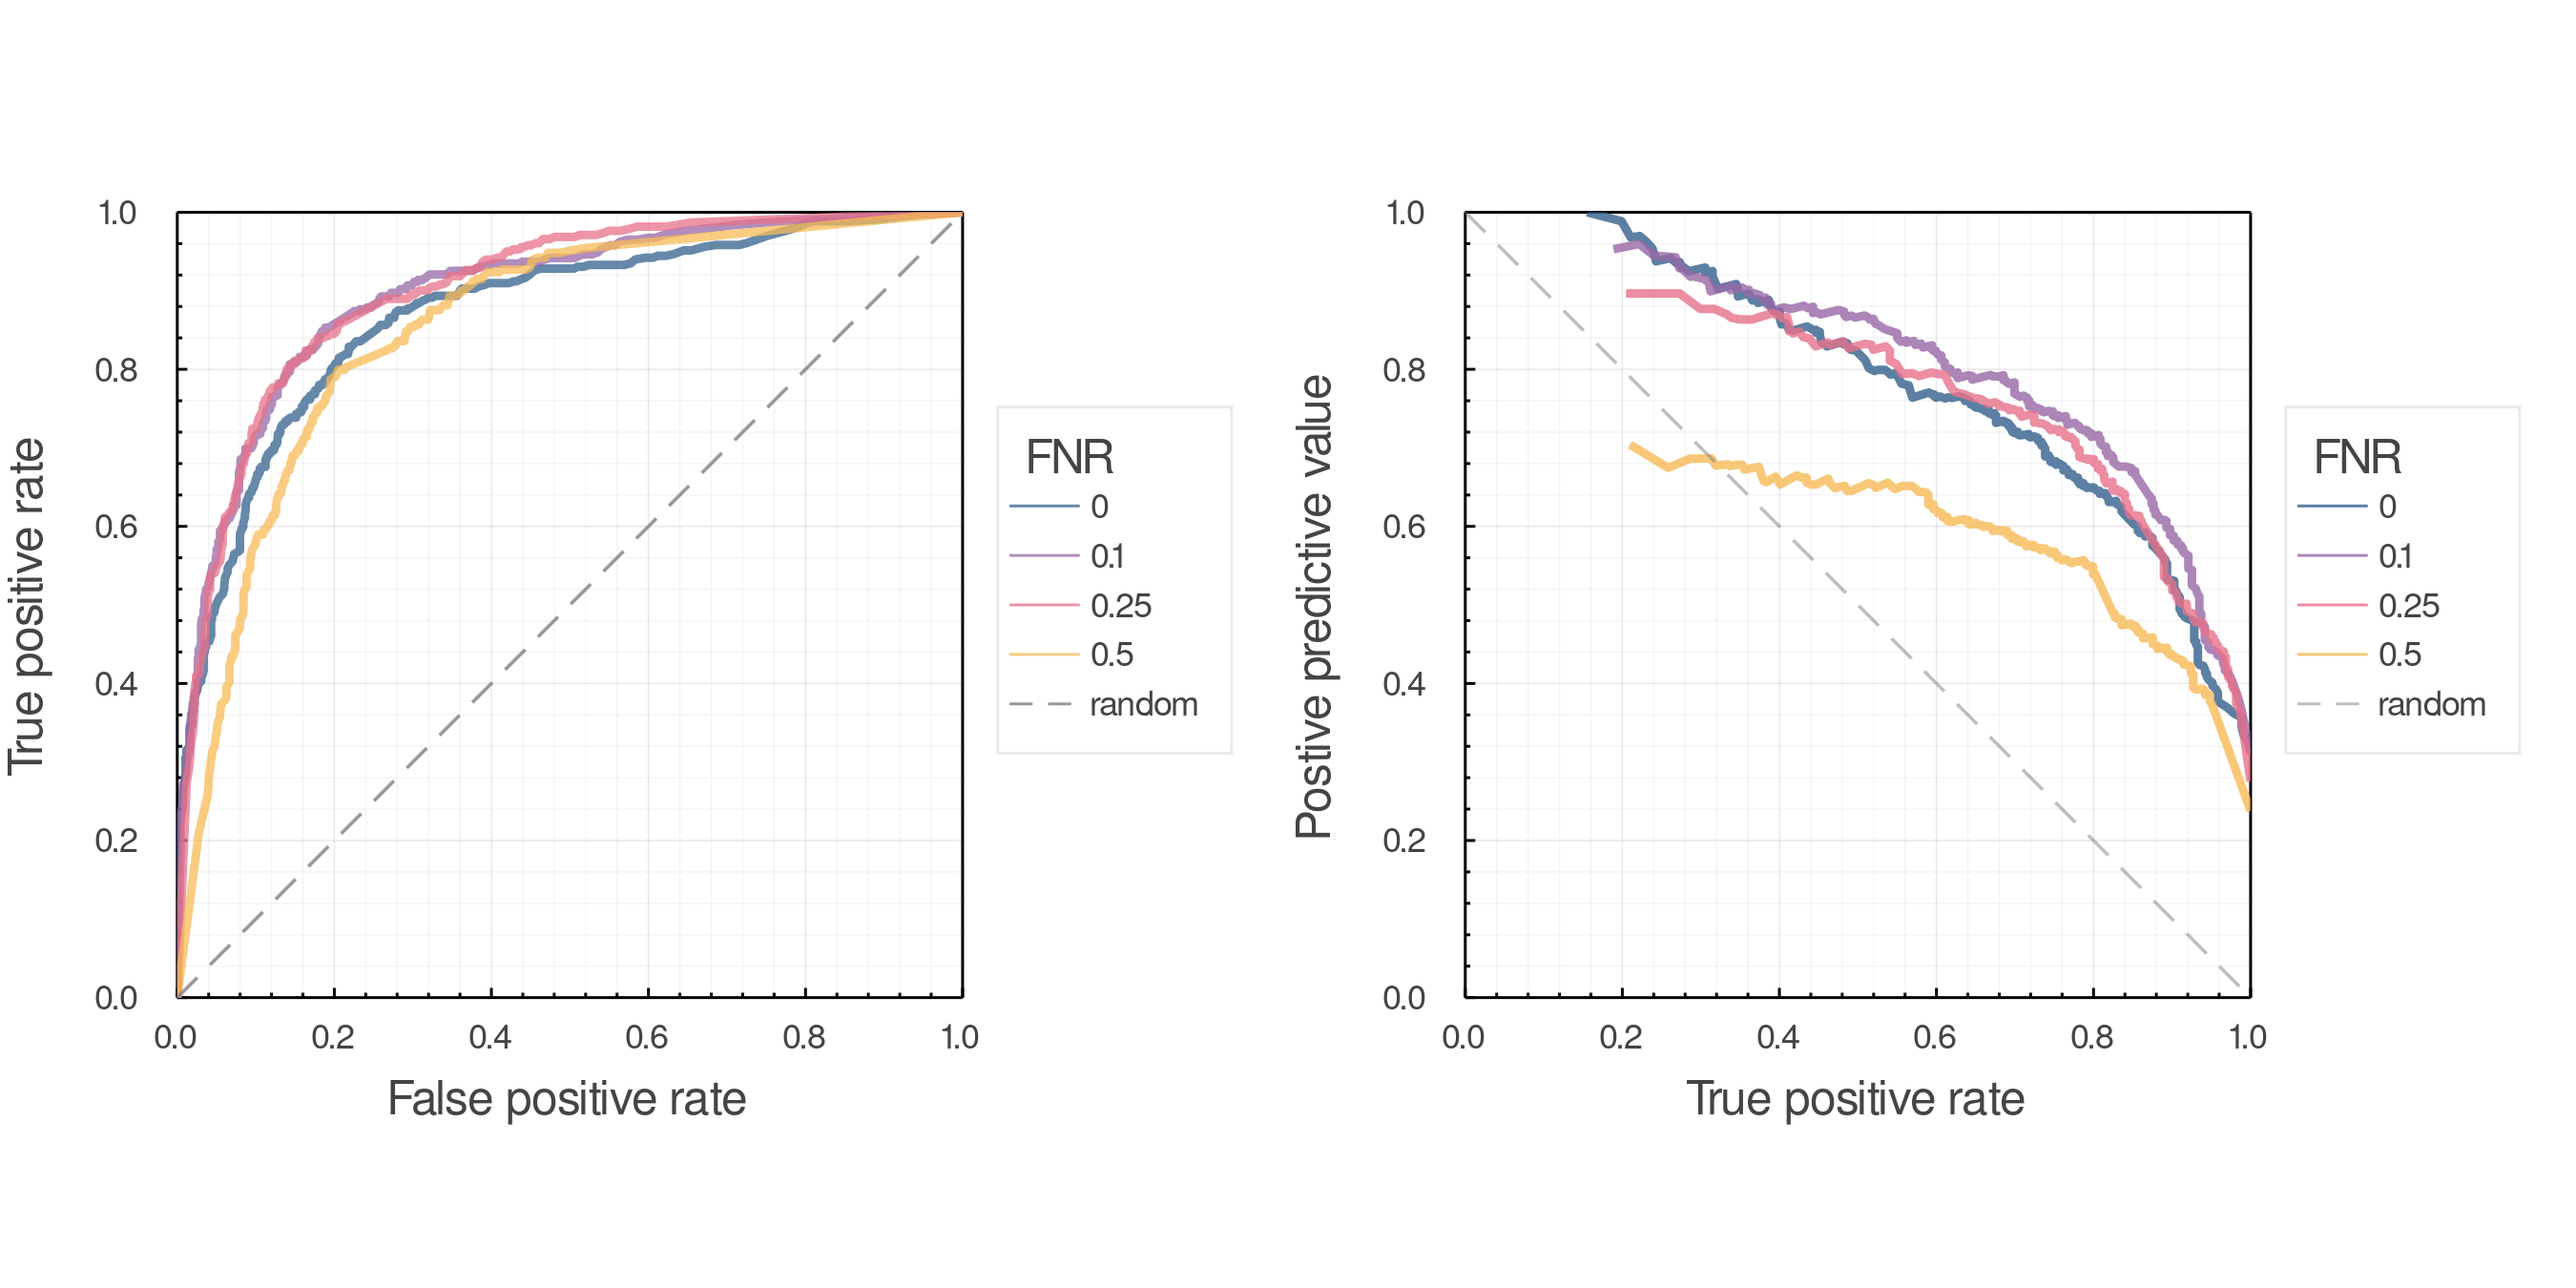
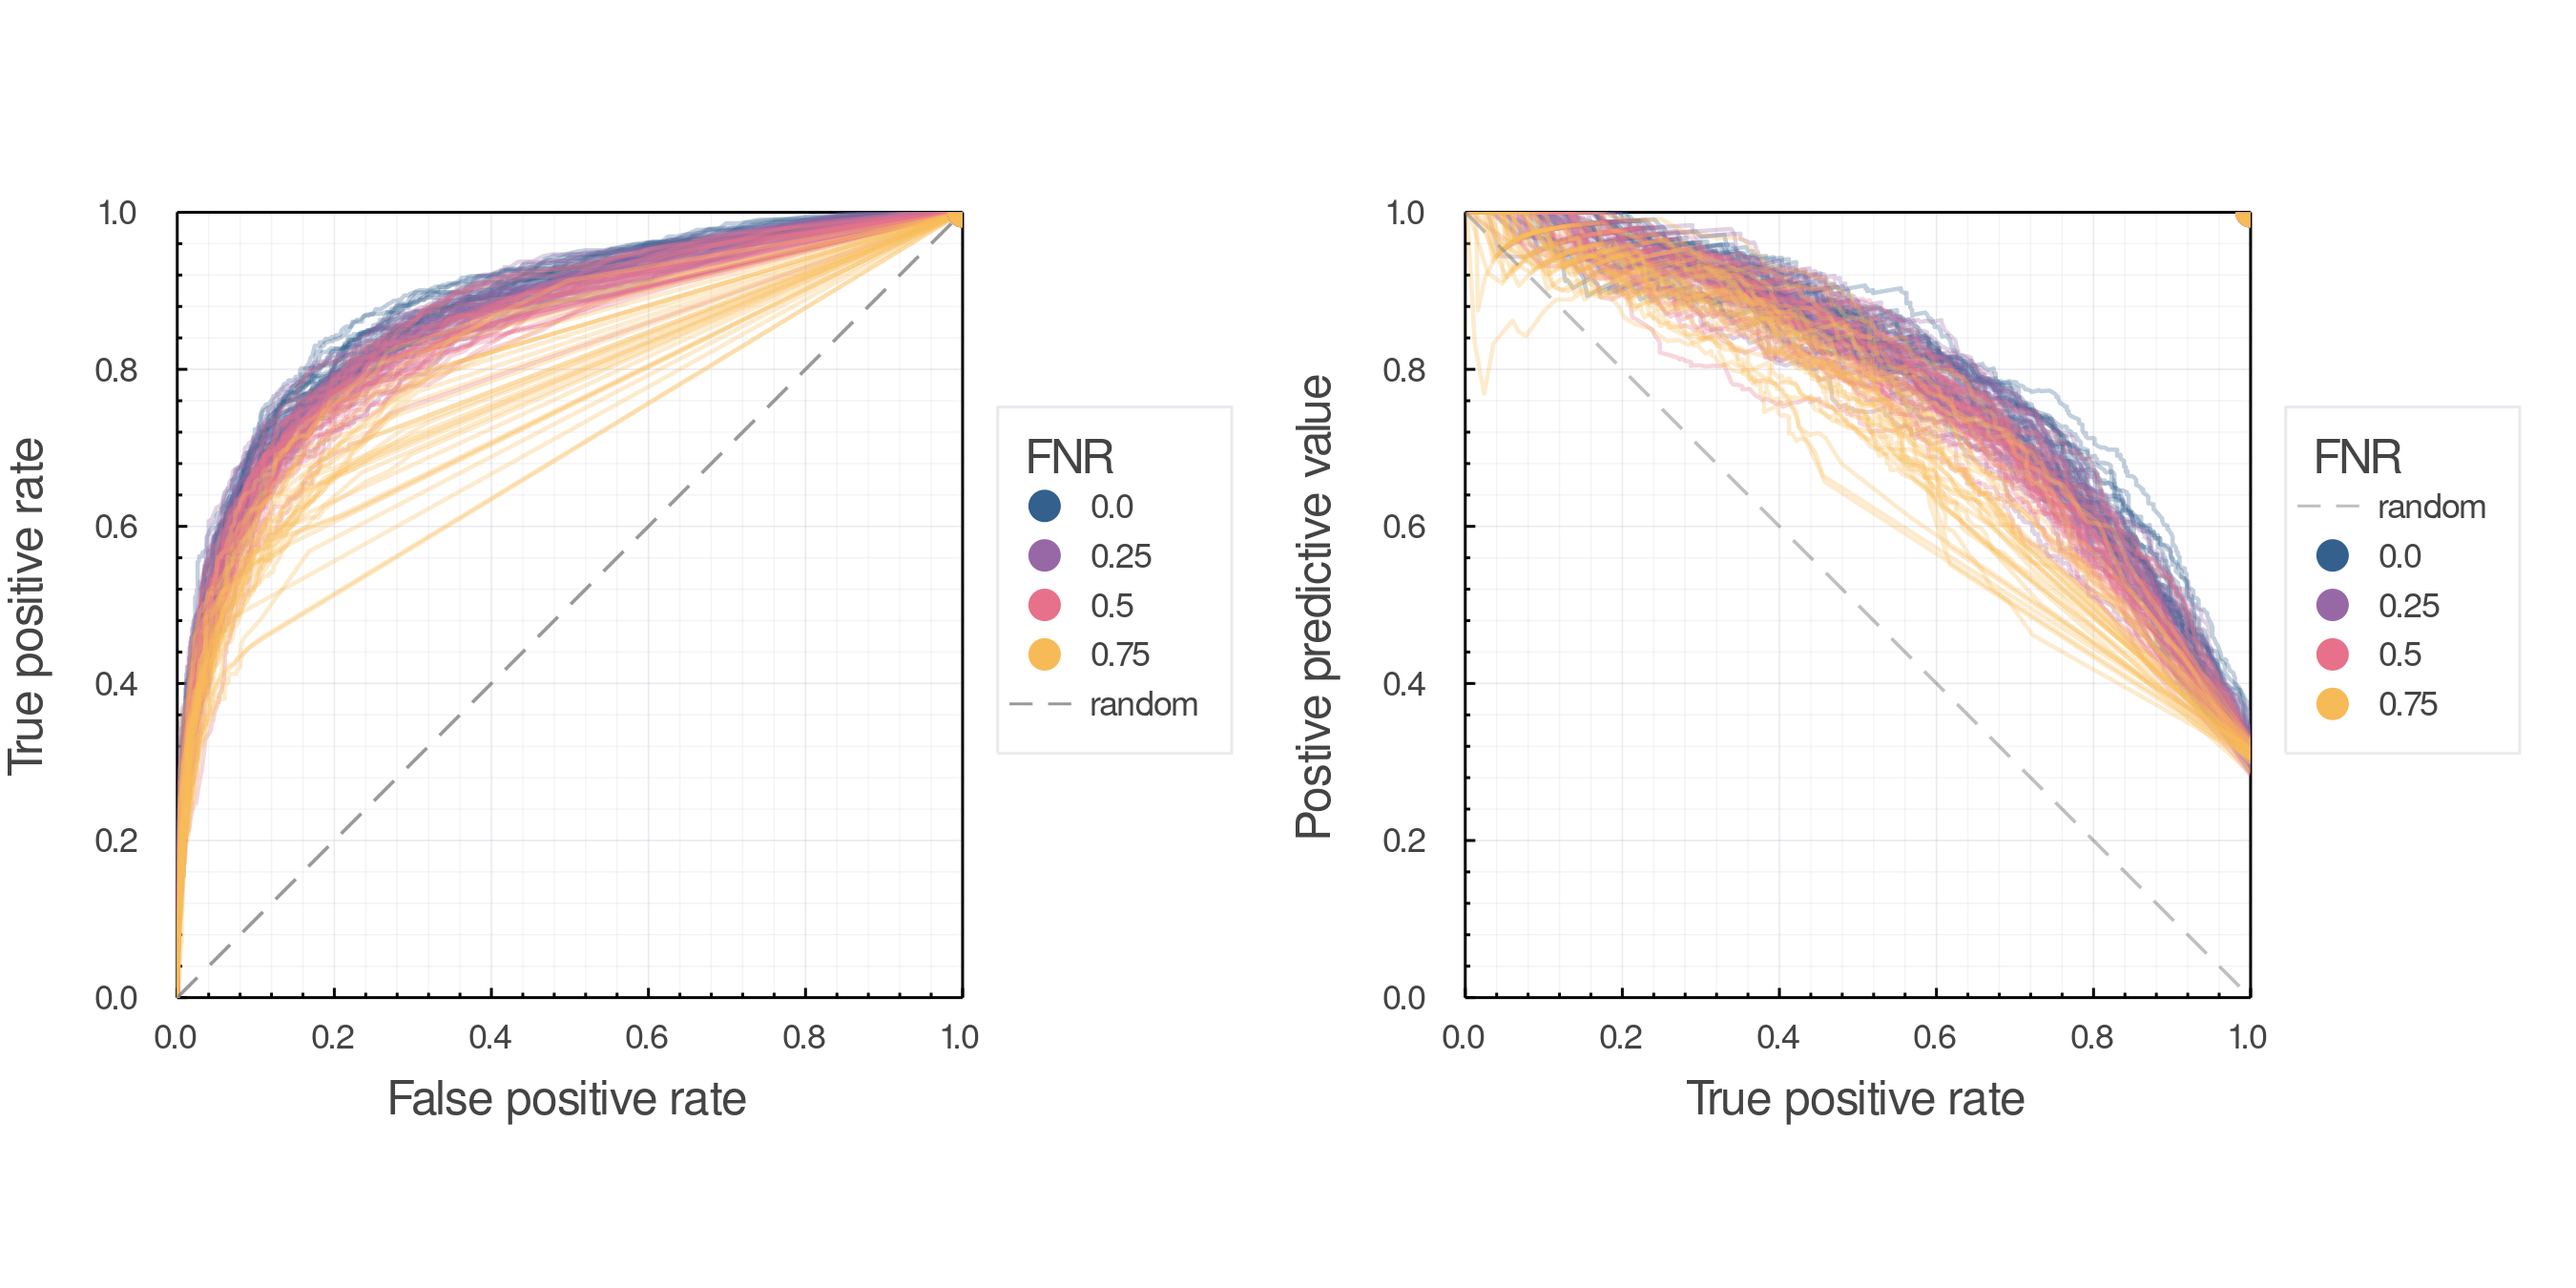
up fig 4

Changed region(s): [[0.56, 0.1556, 0.9644, 0.6222], [0.0622, 0.1556, 0.3733, 0.7467], [0.3733, 0.3733, 0.4667, 0.5289]]

diff --git a/manuscript.md b/manuscript.md
@@ -234,8 +234,10 @@ precision-recall (PR) curves for the model with varying levels of synthetic
 false-negatives added to the data.
 
 ![Receiver-operating-characteristic (left) and precision-recall (right) curves
-for the model on varying levels of false-negatives in the data (colors). Replica
-of figure 1 in @Strydom2021RoaPre](./figures/rocpr_falsenegatives.png){#fig:rocpr}
+for the model on varying levels of false-negatives in the data (colors). For
+each value of FNR, we run 30 random traing/test splits on 80/20 percent of the
+data. Replica of figure 1 in
+@Strydom2021RoaPre](./figures/rocpr_falsenegatives.png){#fig:rocpr}
 
 The primary takeaway here is false-negatives have more effect on
 precision-recall space (right panel of @fig:rocpr), where the potential
